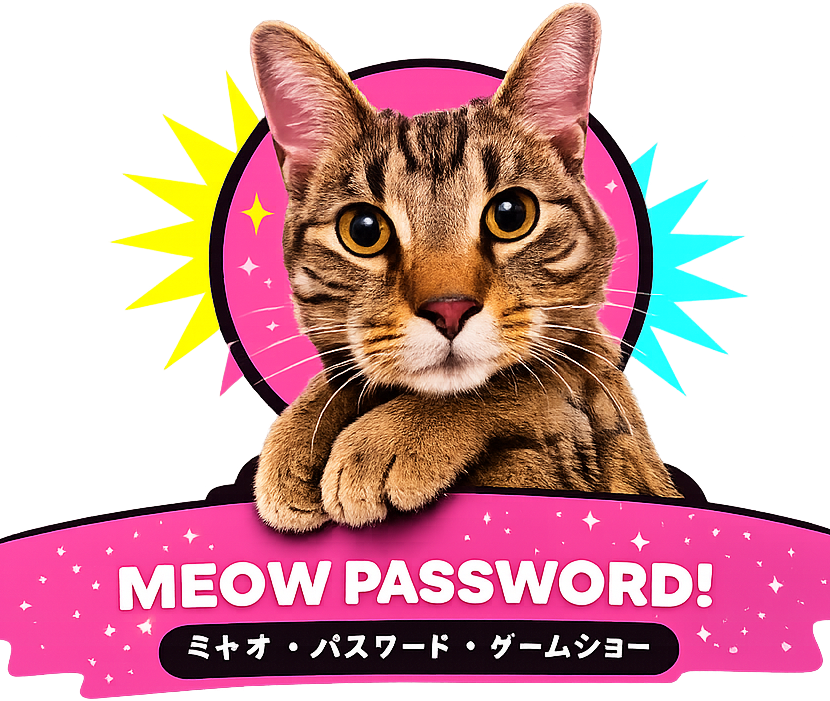
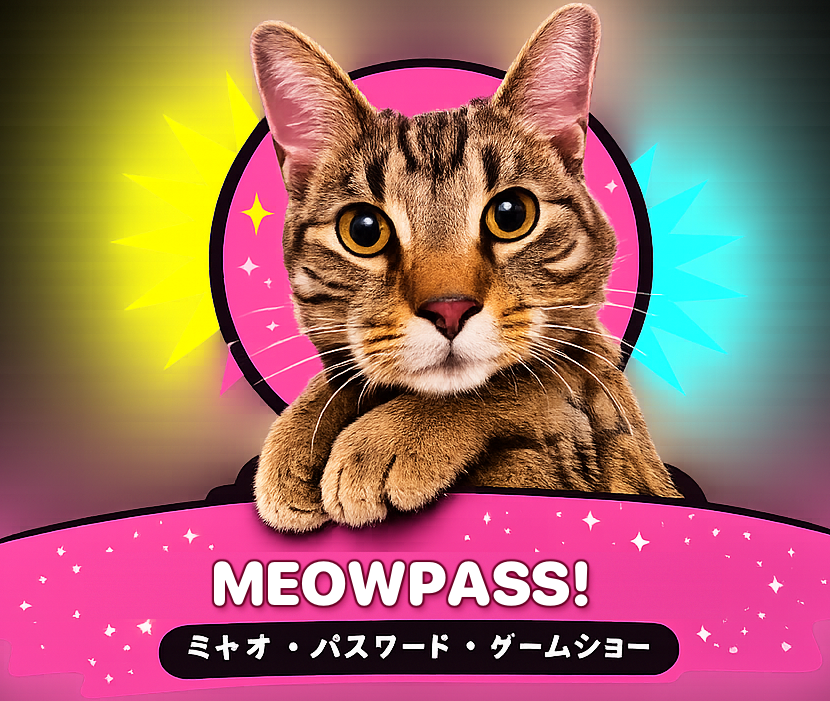
Swap in the reworded MEOWPASS! hero + OG image
Cat/rays/sparkles byte-identical to the source banner; only the wordmark
text box was rebuilt (MEOW PASSWORD! → MEOWPASS!).

Claude-Session: https://claude.ai/code/session_01SFF5UQydNotjJZE2WDm1yM

diff --git a/index.html b/index.html
@@ -7,7 +7,7 @@
 <meta name="description" content="Strong, sayable passwords made from cat names — and hide secret messages inside ordinary cat photos. On-device. No accounts. No network. iOS · macOS · Android.">
 <meta property="og:title" content="MeowPass!">
 <meta property="og:description" content="Cat-name passwords + MeowGram cat-mail. Strong, sayable, and private — all on your device.">
-<meta property="og:image" content="docs/img/hero-meowpass.png">
+<meta property="og:image" content="docs/img/og-meowpass.png">
 <link rel="icon" href="docs/img/icon.png">
 <style>
   /* ---- GameShow neon tokens (match the app: Sources/MeowUI/MeowUI.swift) ---- */